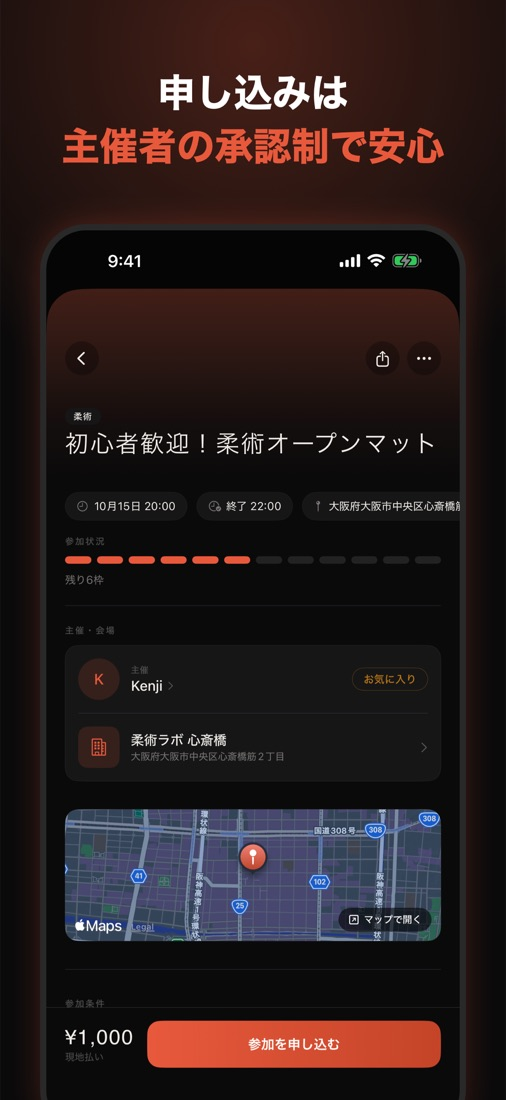
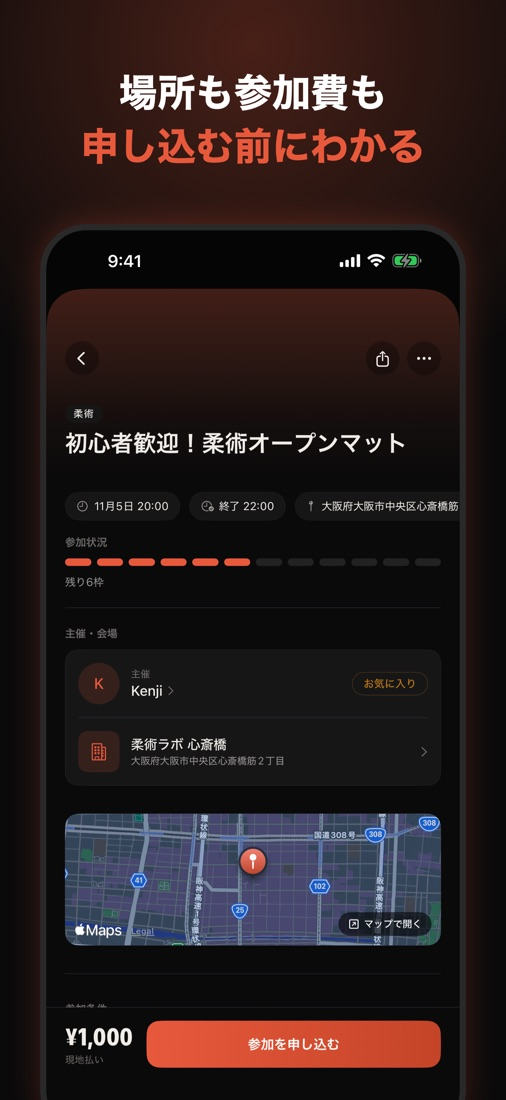
Fix outdated claims and link to the web version

diff --git a/index.html b/index.html
@@ -647,6 +647,12 @@
     margin-bottom: 36px;
   }
 
+  .cta-note a {
+    color: var(--cream);
+    text-decoration: underline;
+    text-underline-offset: 3px;
+  }
+
   /* ===== FOOTER ===== */
   .footer {
     position: relative;
@@ -734,7 +740,8 @@
     </svg>
     App Storeで無料DL
   </a>
-  <p class="cta-note">iOS対応 · 完全無料</p>
+  <p class="cta-note">iPhone対応 · 完全無料</p>
+  <p class="cta-note"><a href="https://spar-5n2.pages.dev">Android・PCの方はWeb版へ</a></p>
 </section>
 
 <!-- DIVIDER -->
@@ -776,7 +783,7 @@
   <div class="screen-list">
     <img src="images/1_home.jpg" alt="ホーム画面。近くの練習募集が種目ごとに並ぶ" width="506" height="1100" loading="lazy">
     <img src="images/2_filter.jpg" alt="絞り込み画面。レベル、自分の体重に合う練習会、現在地からの距離で絞り込める" width="506" height="1100" loading="lazy">
-    <img src="images/3_detail.jpg" alt="練習会の詳細画面。日時、場所、参加状況を確認して申し込める" width="506" height="1100" loading="lazy">
+    <img src="images/3_detail.jpg" alt="練習会の詳細画面。日時、場所、参加費、参加状況を確認して申し込める" width="506" height="1100" loading="lazy">
     <img src="images/4_chat.jpg" alt="メッセージ画面。主催者と当日の確認ができる" width="506" height="1100" loading="lazy">
     <img src="images/5_map.jpg" alt="地図画面。近くのジムや施設を地図で探せる" width="506" height="1100" loading="lazy">
   </div>
@@ -787,7 +794,7 @@
 <div class="section-divider"></div>
 <section class="use-cases">
   <div class="use-cases-label">USE CASES</div>
-  <div class="use-cases-title">こんな場面で<br>使われています</div>
+  <div class="use-cases-title">こんな場面で<br>使えます</div>
 
   <div class="case-list">
 
@@ -808,7 +815,7 @@
       <div class="case-body">
         <div class="case-tag">CASE 02</div>
         <div class="case-title">体重が合う相手が<br>ジムにいない</div>
-        <div class="case-desc">ジムに通っていても体重が合う練習相手がいないことはよくあります。SPARなら体重・レベル・スタイルで絞り込んで、本当に自分に合った相手を見つけられます。</div>
+        <div class="case-desc">ジムに通っていても体重が合う練習相手がいないことはよくあります。SPARなら体重・レベル・種目で絞り込んで、本当に自分に合った相手を見つけられます。</div>
         <div class="case-quote">「いつも体重差がありすぎて…」そんなストレスをSPARが解決します。</div>
       </div>
     </div>
@@ -861,7 +868,7 @@
       </div>
       <ul class="user-card-list">
         <li>ジムの掲載・広告ができる</li>
-        <li>レッスンの空き時間をレンタルとして募集できる</li>
+        <li>練習会を開いて参加者を募集できる</li>
         <li>会員の練習相手探しをサポート</li>
         <li>会場ごとの分析機能（総開催数・累計参加者数・平均参加人数・リピーター数・人気ジャンルを確認可能）</li>
       </ul>
@@ -892,6 +899,13 @@
     <div class="step">
       <div class="step-dot">3</div>
       <div class="step-body">
+        <div class="step-title">気になる練習に申し込む</div>
+        <div class="step-desc">参加が決まったら、アプリ内のメッセージで当日の確認ができます。</div>
+      </div>
+    </div>
+    <div class="step">
+      <div class="step-dot">4</div>
+      <div class="step-body">
         <div class="step-title">練習してレビュー</div>
         <div class="step-desc">練習後に評価を残してコミュニティを盛り上げましょう。</div>
       </div>
@@ -910,7 +924,8 @@
     </svg>
     App Storeで無料DL
   </a>
-  <p class="cta-note" style="margin-top:12px;">iOS対応</p>
+  <p class="cta-note" style="margin-top:12px;">iPhone対応</p>
+  <p class="cta-note"><a href="https://spar-5n2.pages.dev">Android・PCの方はWeb版へ</a></p>
 </section>
 
 <!-- FOOTER -->
